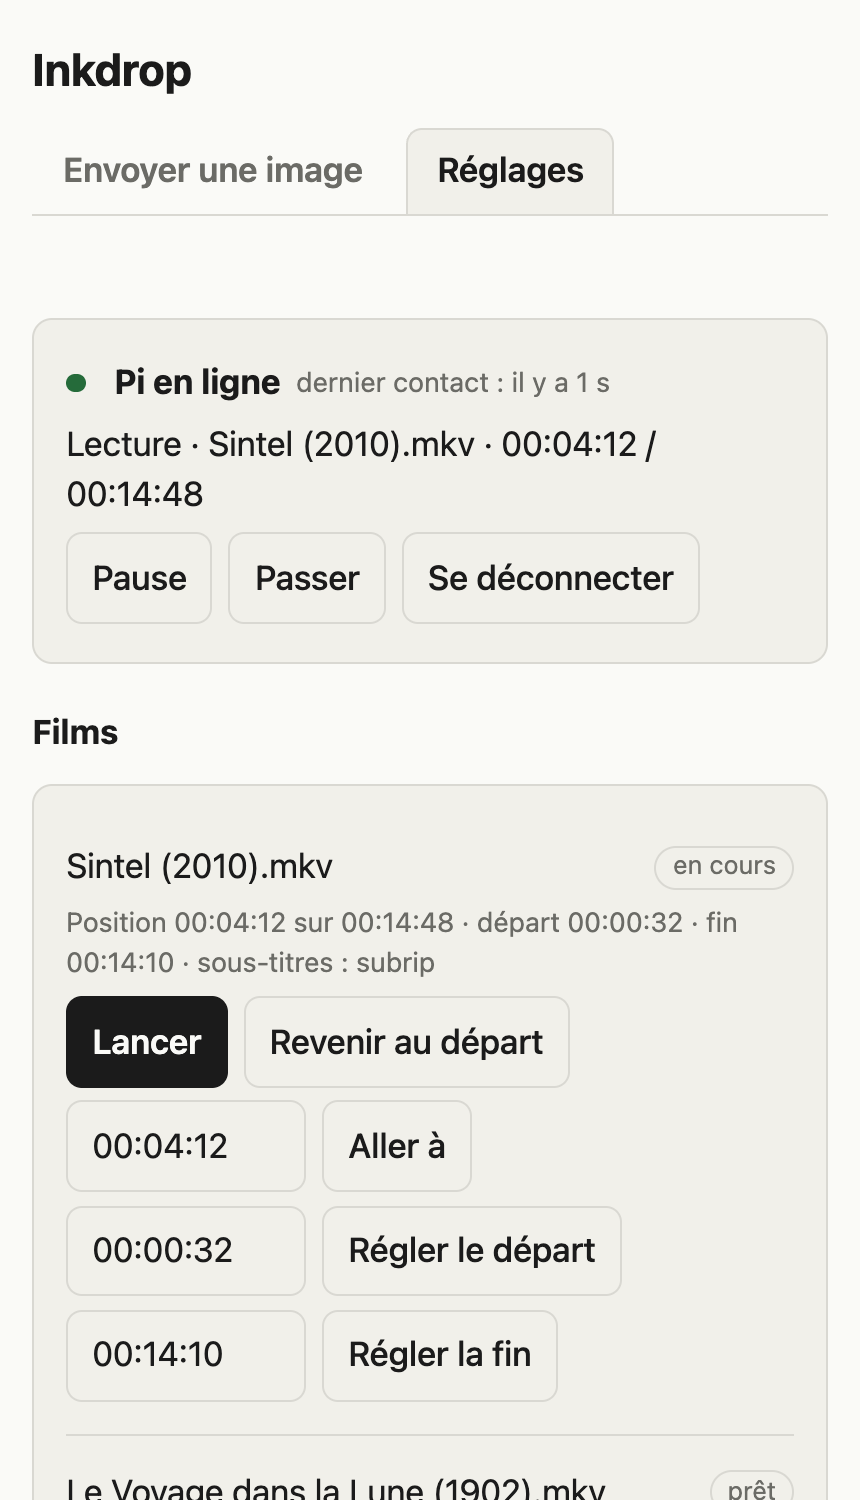
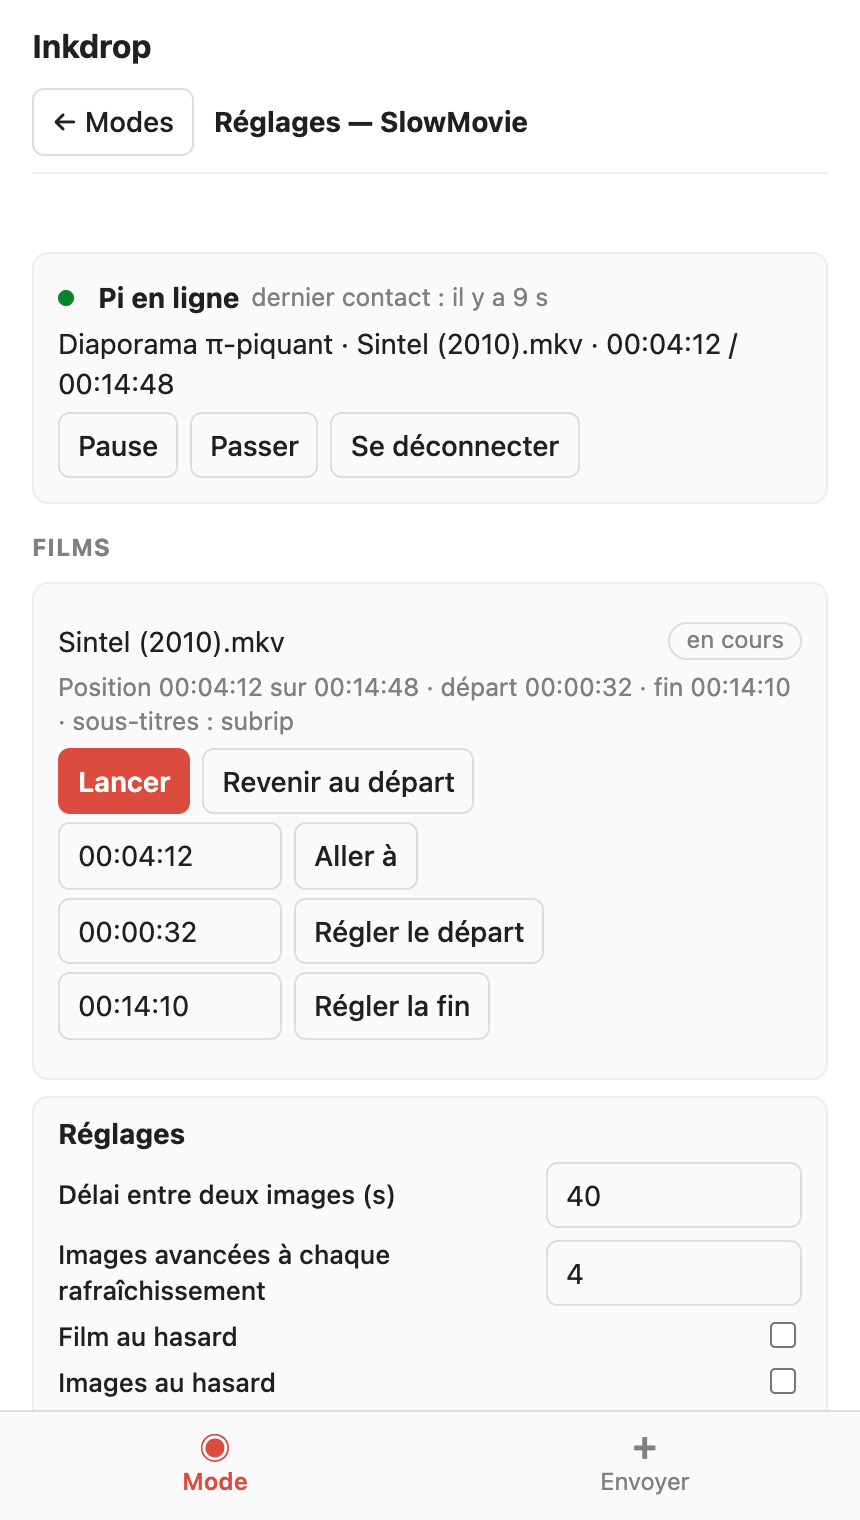
docs: modes de défilement, nouvelles captures, recette

diff --git a/README.md b/README.md
@@ -3,20 +3,28 @@
 > Ce projet a été vibecodé avec l'aide de l'intelligence artificielle.
 
 Évolution de [SlowMovie](https://github.com/TomWhitwell/SlowMovie) (un film joué image par image sur un écran e-paper,
-Raspberry Pi) avec trois apports :
+Raspberry Pi) avec quatre apports :
 
-1. **Envoi d'images à distance** : depuis un téléphone ou un ordinateur, on envoie une image et une durée. Elle remplace
-   le film à l'écran pendant ce temps (le film est en pause), puis le film reprend là où il s'était arrêté. Les envois
-   forment une file d'attente, protégée par un mot de passe partagé.
-   Un **texte** de 128 caractères au plus peut accompagner l'image : il s'affiche en blanc cerclé de noir (corps de 20 px), centré en bas,
-   avec une marge réglable sous le texte (`caption_margin`, 40 px par défaut) pour un écran en partie masqué par un cadre.
-   Un onglet **π-piquant** tire au hasard un dessin d'après les décimales de π (1 à 200 décimales, angle de 1° à 359°),
-   produit par le service [pi-piquant](https://github.com/charlescoiffier/pi-piquant), et l'affiche pour la durée choisie ;
-   la légende (« π-piquant • 1 = 214° • 87 décimales ») est écrite par le Pi, et non dessinée par le service.
-   Un onglet **Réglages** (mot de passe administrateur séparé) permet de piloter le Pi à distance : film, position de
-   départ et de fin par film (pour sauter les génériques), sous-titres (y compris intégrés au film) et réglages.
-2. **Interface terminal** (TUI Textual, au clavier, thème « galaxy » comme [cadav](https://github.com/charlescoiffier/cadav)).
-3. **Ajout de films simplifié** : glisser-déposer dans un partage réseau, ou `slowmovie add film.mp4`.
+1. **Trois modes de défilement**, un seul actif à la fois, choisis depuis la passerelle :
+   - **SlowMovie** : le film, image après image, comme l'amont ;
+   - **π-piquants** : un dessin tiré au hasard d'après les décimales de π (1 à 200 décimales, angle de 1° à 359°),
+     produit par le service [pi-piquant](https://github.com/charlescoiffier/pi-piquant), renouvelé à intervalle régulier ;
+   - **Photos** : une photo tirée au hasard dans un album Google Photos (lien de partage, méthode non officielle),
+     renouvelée à intervalle régulier.
+
+   Le mot de passe général suffit pour changer de mode, de rythme (pastilles : 5 min à 3 h, ou 30 s à 5 min pour le film)
+   et pour afficher ou non le titre des π-piquants. Le bouton ⚙ de chaque mode ouvre ses réglages complets (mot de passe
+   administrateur séparé) : pour SlowMovie, le film, la position de départ et de fin par film (pour sauter les génériques),
+   les sous-titres (y compris intégrés) et les réglages du lecteur ; pour les π-piquants, le rythme libre et le titre ; pour
+   les photos, le lien de l'album (un secret : jamais affiché ni journalisé) et le rythme.
+2. **Envoi d'images à distance**, dans tous les modes : depuis un téléphone ou un ordinateur, on envoie une image et une
+   durée (ou on tire un π-piquant au hasard). Elle remplace le défilement à l'écran pendant ce temps, qui reprend ensuite.
+   Les envois forment une file d'attente, protégée par un mot de passe partagé. Un **texte** de 128 caractères au plus peut
+   accompagner l'image : il s'affiche en blanc cerclé de noir (corps de 20 px, 14 px pour la légende d'un π-piquant),
+   centré en bas, avec une marge réglable sous le texte (`caption_margin`, 40 px par défaut) pour un écran en partie
+   masqué par un cadre.
+3. **Interface terminal** (TUI Textual, au clavier, thème « galaxy » comme [cadav](https://github.com/charlescoiffier/cadav)).
+4. **Ajout de films simplifié** : glisser-déposer dans un partage réseau, ou `slowmovie add film.mp4`.
 
 ## Aperçu
 
@@ -26,10 +34,11 @@ Raspberry Pi) avec trois apports :
 
 <table>
   <tr>
-    <td align="center" width="25%"><img src="docs/images/web-envoi.png" alt="Formulaire d'envoi d'une image avec son texte" width="230"><br><sub>Envoyer une image, avec un texte et une durée</sub></td>
-    <td align="center" width="25%"><img src="docs/images/web-confirmation.png" alt="Page de confirmation d'envoi" width="230"><br><sub>Page de confirmation : position dans la file</sub></td>
-    <td align="center" width="25%"><img src="docs/images/web-reglages.png" alt="Onglet Réglages : état du Pi et films" width="230"><br><sub>Onglet Réglages : état du Pi, films, départ et fin</sub></td>
-    <td align="center" width="25%"><img src="docs/images/web-reglages-bas.png" alt="Onglet Réglages : réglages du lecteur" width="230"><br><sub>Les mêmes réglages que la TUI</sub></td>
+    <td align="center" width="20%"><img src="docs/images/web-mode.png" alt="Onglet Mode : le mode π-piquant, son rythme et son titre" width="180"><br><sub>Onglet Mode : activer un mode, choisir son rythme</sub></td>
+    <td align="center" width="20%"><img src="docs/images/web-envoyer.png" alt="Onglet Envoyer : tirer un π-piquant" width="180"><br><sub>Onglet Envoyer : une image ou un π-piquant</sub></td>
+    <td align="center" width="20%"><img src="docs/images/web-confirmation.png" alt="Page de confirmation d'envoi" width="180"><br><sub>Page de suivi, avec retour à l'accueil</sub></td>
+    <td align="center" width="20%"><img src="docs/images/web-reglages.png" alt="Réglages de SlowMovie : état du Pi et films" width="180"><br><sub>⚙ SlowMovie : état du Pi, films, départ et fin</sub></td>
+    <td align="center" width="20%"><img src="docs/images/web-photos.png" alt="Réglages du mode Photos : lien de l'album et rythme" width="180"><br><sub>⚙ Photos : lien de l'album (jamais affiché) et rythme</sub></td>
   </tr>
 </table>
 
@@ -44,15 +53,17 @@ Raspberry Pi) avec trois apports :
 
 ### Sur l'écran e-paper
 
-Une image envoyée avec son texte, centré en bas (rendu tramé en 1 bit, comme l'écran) :
+Une image envoyée avec son texte, centré en bas, et un π-piquant avec sa légende (rendu tramé en 1 bit, comme l'écran).
+La marge sous le texte tient compte d'un cadre qui masque le bas de l'écran :
 
-<img src="docs/images/ecran-texte.png" alt="Image envoyée avec un texte sous l'image, rendue en noir et blanc" width="480">
+<img src="docs/images/ecran-texte.png" alt="Image envoyée avec un texte sous l'image, rendue en noir et blanc" width="360">
+<img src="docs/images/ecran-pipiquant.png" alt="Un π-piquant avec sa légende, rendu en noir et blanc" width="360">
 
 ## Architecture
 
 ```
 téléphone ──HTTPS──▶ relais (VPS, Docker) ◀──HTTPS sortant── lecteur (Pi) ──▶ écran e-paper
-                       page d'envoi, file                      FILM ↔ IMAGE        ▲
+                       page d'envoi, file                      FILM / DIAPORAMA ↔ IMAGE ▲
                                                                   ▲                │
                                           TUI / CLI ──socket──────┘          seul à toucher l'écran
 ```
